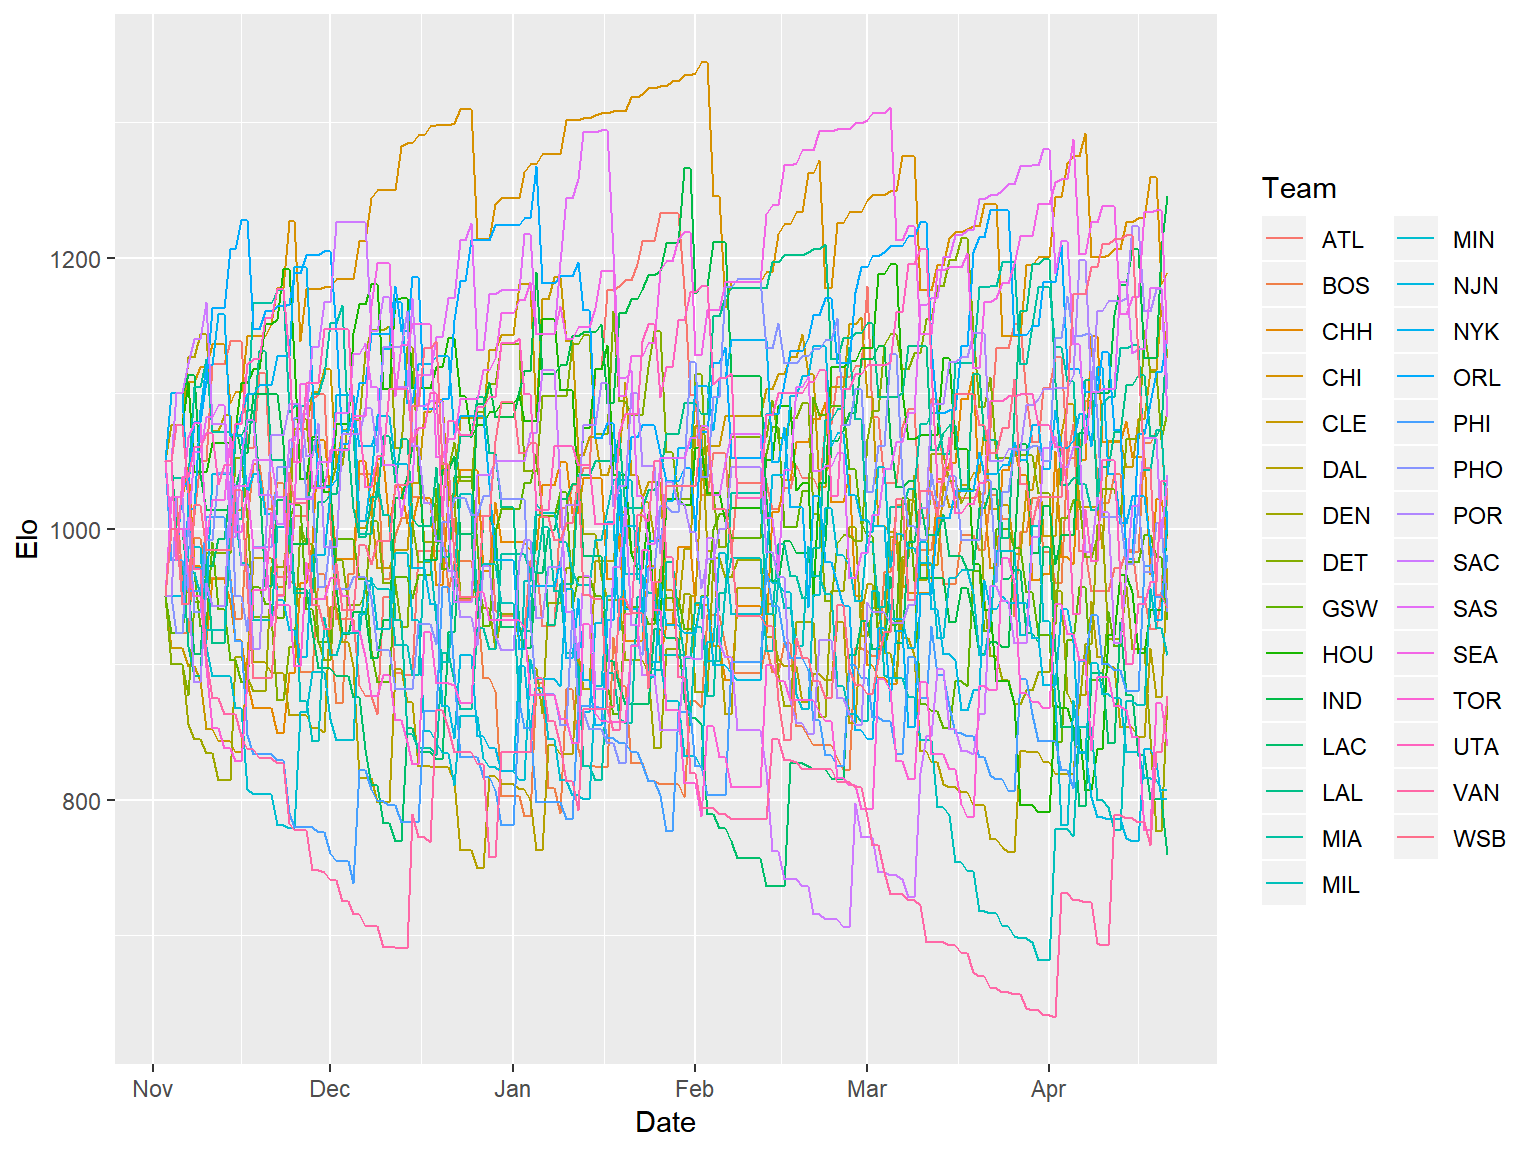
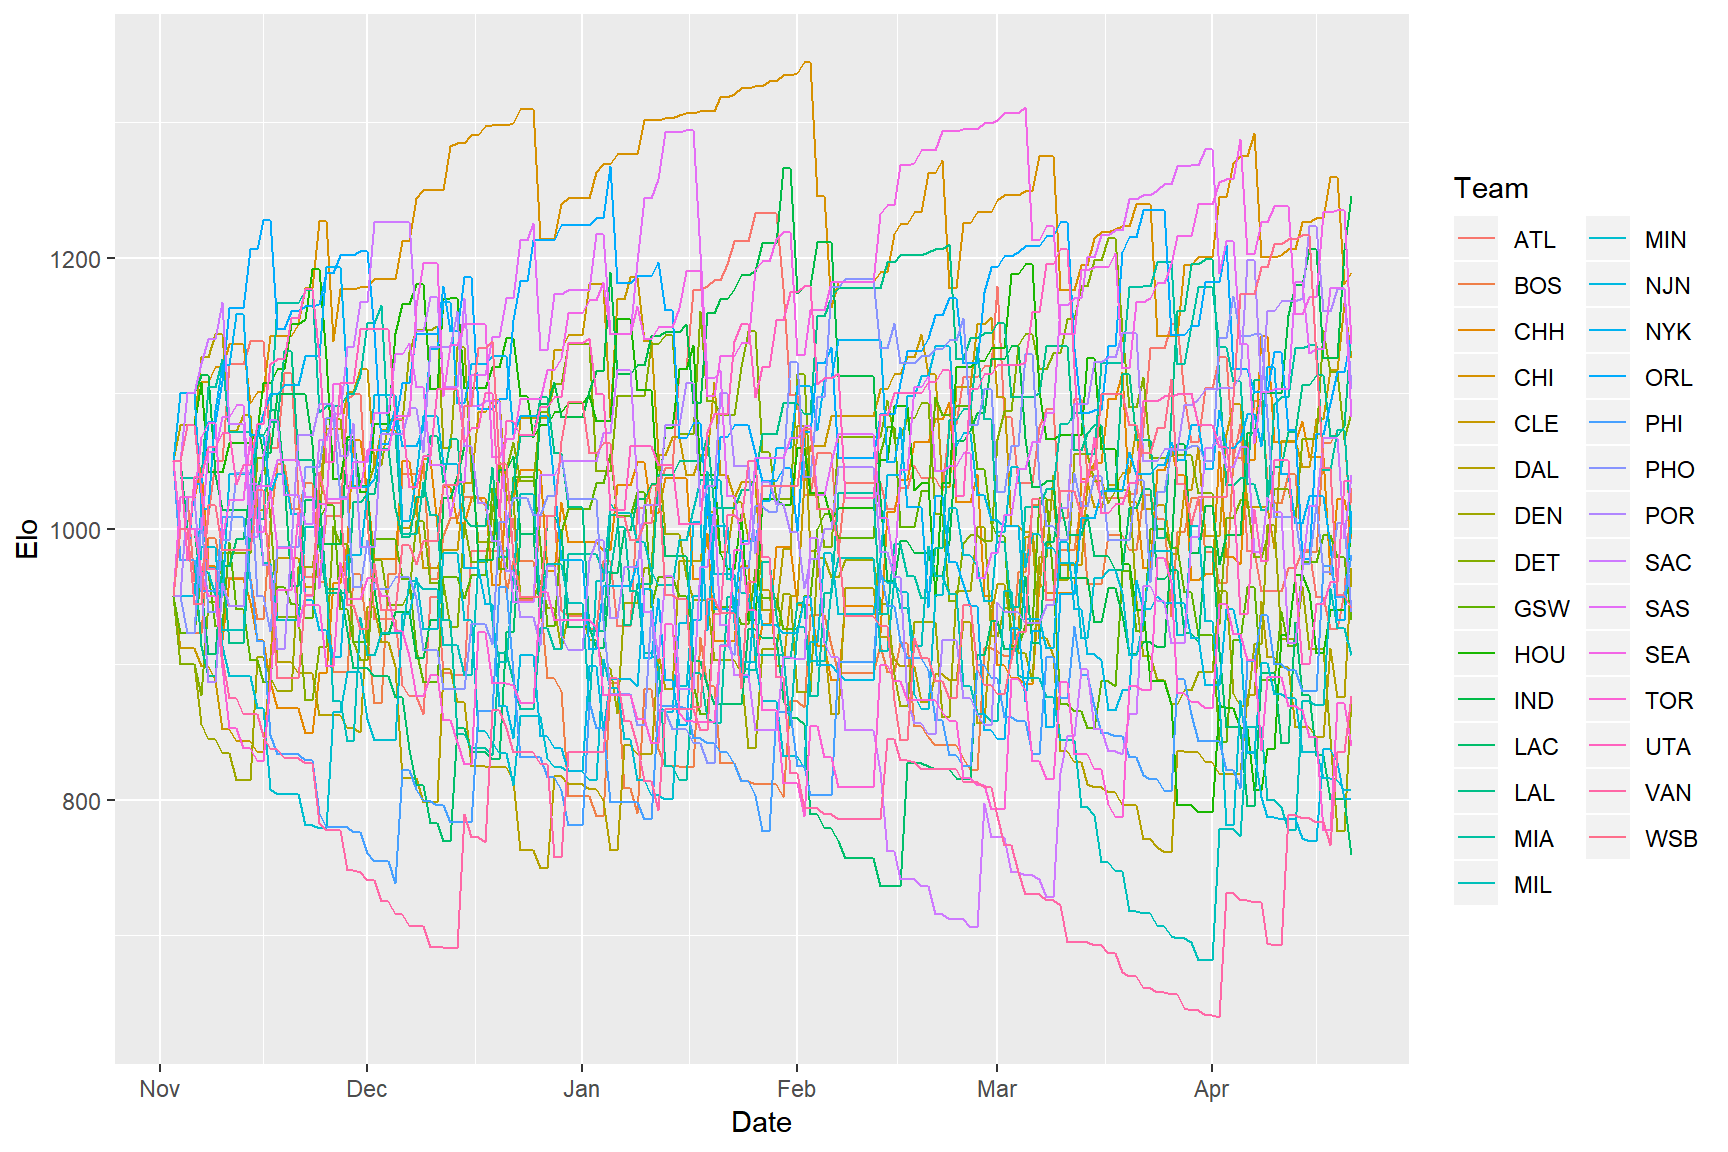
tweaks to vignette

diff --git a/docs/articles/nba-example.html b/docs/articles/nba-example.html
@@ -92,7 +92,7 @@
 
     
     
-<p>A familiar example may be useful for understanding the different fitting options available in the EloOptimized package. We included in the package a set of game results from the 1995-1996 NBA regular season. We used NBA data because games can’t end in a tie, teams play all other teams over the course of the season, and there are a manageable set of teams for visualization purposes. During the 1995-1996 season, the Chicago Bulls went 72-10 (until recently the best record in NBA history), had a winning record against all but one team, and went on to win the championship. Therefore we would expect a reasonable ranking method to assign them the highest rank score by the end of the season. First we’ll use a traditional Elo ranking approach to assign Elo scores using <code><a href="../reference/eloratingfixed.html">eloratingfixed()</a></code>, and then we’ll show how maximum likelihood fitting improves things.</p>
+<p>A familiar example may be useful for understanding the different fitting options available in the EloOptimized package. We included in the package a data frame with game results from the 1995-1996 NBA regular season. We used NBA data because games can’t end in a tie, teams play all other teams over the course of the season, and there’s a manageable set of teams for visualization purposes. During the 1995-1996 season, the Chicago Bulls went 72-10 (until recently the best record in NBA history), had a winning record against all but one team (the Pacers, against whom they went 2-2), and went on to win the championship. Therefore we would expect a reasonable ranking method to assign them the highest rank score by the end of the season. First we’ll use a traditional Elo ranking approach to assign Elo scores using <code><a href="../reference/eloratingfixed.html">eloratingfixed()</a></code>, and then we’ll show how maximum likelihood fitting improves things.</p>
 <div id="traditional-elo-scores-with-default-parameter-values" class="section level2">
 <h2 class="hasAnchor">
 <a href="#traditional-elo-scores-with-default-parameter-values" class="anchor"></a>Traditional Elo scores with default parameter values</h2>
@@ -126,9 +126,9 @@
 <a class="sourceLine" id="cb3-18" title="18"><span class="st">  </span><span class="kw">rename</span>(<span class="dt">Team =</span> Individual) <span class="op">%&gt;%</span></a>
 <a class="sourceLine" id="cb3-19" title="19"><span class="st">  </span><span class="kw">ggplot</span>(<span class="kw">aes</span>(<span class="dt">x =</span> Date, <span class="dt">y =</span> Elo, <span class="dt">color =</span> Team)) <span class="op">+</span><span class="st"> </span></a>
 <a class="sourceLine" id="cb3-20" title="20"><span class="st">  </span><span class="kw">geom_line</span>()</a></code></pre></div>
-<p><img src="nba-example_files/figure-html/unnamed-chunk-3-1.png" width="768"></p>
+<p><img src="nba-example_files/figure-html/unnamed-chunk-3-1.png" width="864"></p>
 <p>There’s a lot of noise in that plot, but if you look closely you’ll notice that Chicago doesn’t end the season with the highest Elo score. There were 29 teams in the NBA in the 95-96 season, so we can check final Elo scores directly by sorting the the last 29 rows of the Elo scores data frame (we’re removing a couple columns to make the output easier to look at):</p>
-<div class="sourceCode" id="cb4"><pre class="sourceCode r"><code class="sourceCode r"><a class="sourceLine" id="cb4-1" title="1"><span class="kw"><a href="https://www.rdocumentation.org/packages/utils/topics/head">tail</a></span>(res<span class="op">$</span>elo, <span class="dv">29</span>) <span class="op">%&gt;%</span><span class="st"> </span>dplyr<span class="op">::</span><span class="kw"><a href="https://dplyr.tidyverse.org/reference/arrange.html">arrange</a></span>(<span class="op">-</span>Elo) <span class="op">%&gt;%</span><span class="st"> </span><span class="kw">select</span>(<span class="op">-</span>ExpNumBeaten, <span class="op">-</span>JenksEloCardinal)</a>
+<div class="sourceCode" id="cb4"><pre class="sourceCode r"><code class="sourceCode r"><a class="sourceLine" id="cb4-1" title="1"><span class="kw"><a href="https://www.rdocumentation.org/packages/utils/topics/head">tail</a></span>(res<span class="op">$</span>elo, <span class="dv">29</span>) <span class="op">%&gt;%</span><span class="st"> </span><span class="kw">arrange</span>(<span class="op">-</span>Elo) <span class="op">%&gt;%</span><span class="st"> </span><span class="kw">select</span>(<span class="op">-</span>ExpNumBeaten, <span class="op">-</span>JenksEloCardinal)</a>
 <a class="sourceLine" id="cb4-2" title="2"><span class="co">#&gt;          Date Individual       Elo EloOrdinal  EloScaled EloCardinal</span></a>
 <a class="sourceLine" id="cb4-3" title="3"><span class="co">#&gt; 1  1996-04-21        IND 1245.7977          1 1.00000000   0.8921359</span></a>
 <a class="sourceLine" id="cb4-4" title="4"><span class="co">#&gt; 2  1996-04-21        CHI 1189.4438          2 0.88412548   0.8285396</span></a>
@@ -173,9 +173,9 @@
 <a class="sourceLine" id="cb6-2" title="2"><span class="st">  </span><span class="kw">rename</span>(<span class="dt">Team =</span> Individual) <span class="op">%&gt;%</span></a>
 <a class="sourceLine" id="cb6-3" title="3"><span class="st">  </span><span class="kw">ggplot</span>(<span class="kw">aes</span>(<span class="dt">x =</span> Date, <span class="dt">y =</span> Elo, <span class="dt">color =</span> Team)) <span class="op">+</span><span class="st"> </span></a>
 <a class="sourceLine" id="cb6-4" title="4"><span class="st">  </span><span class="kw">geom_line</span>()</a></code></pre></div>
-<p><img src="nba-example_files/figure-html/unnamed-chunk-6-1.png" width="768"></p>
+<p><img src="nba-example_files/figure-html/unnamed-chunk-6-1.png" width="864"></p>
 <p>There’s an initial period of sorting, followed by more stable Elo scores over the course of the season. It looks like Chicago’s on top this time, but let’s double check:</p>
-<div class="sourceCode" id="cb7"><pre class="sourceCode r"><code class="sourceCode r"><a class="sourceLine" id="cb7-1" title="1"><span class="kw"><a href="https://www.rdocumentation.org/packages/utils/topics/head">tail</a></span>(res2<span class="op">$</span>elo, <span class="dv">29</span>) <span class="op">%&gt;%</span><span class="st"> </span>dplyr<span class="op">::</span><span class="kw"><a href="https://dplyr.tidyverse.org/reference/arrange.html">arrange</a></span>(<span class="op">-</span>Elo) <span class="op">%&gt;%</span><span class="st"> </span><span class="kw">select</span>(<span class="op">-</span>ExpNumBeaten, <span class="op">-</span>JenksEloCardinal)</a>
+<div class="sourceCode" id="cb7"><pre class="sourceCode r"><code class="sourceCode r"><a class="sourceLine" id="cb7-1" title="1"><span class="kw"><a href="https://www.rdocumentation.org/packages/utils/topics/head">tail</a></span>(res2<span class="op">$</span>elo, <span class="dv">29</span>) <span class="op">%&gt;%</span><span class="st"> </span><span class="kw">arrange</span>(<span class="op">-</span>Elo) <span class="op">%&gt;%</span><span class="st"> </span><span class="kw">select</span>(<span class="op">-</span>ExpNumBeaten, <span class="op">-</span>JenksEloCardinal)</a>
 <a class="sourceLine" id="cb7-2" title="2"><span class="co">#&gt;          Date Individual       Elo EloOrdinal  EloScaled EloCardinal</span></a>
 <a class="sourceLine" id="cb7-3" title="3"><span class="co">#&gt; 1  1996-04-21        CHI 1177.8359          1 1.00000000   0.8386881</span></a>
 <a class="sourceLine" id="cb7-4" title="4"><span class="co">#&gt; 2  1996-04-21        SEA 1140.5106          2 0.88692465   0.7832719</span></a>
@@ -220,9 +220,9 @@
 <a class="sourceLine" id="cb9-2" title="2"><span class="st">  </span><span class="kw">rename</span>(<span class="dt">Team =</span> Individual) <span class="op">%&gt;%</span></a>
 <a class="sourceLine" id="cb9-3" title="3"><span class="st">  </span><span class="kw">ggplot</span>(<span class="kw">aes</span>(<span class="dt">x =</span> Date, <span class="dt">y =</span> Elo, <span class="dt">color =</span> Team)) <span class="op">+</span><span class="st"> </span></a>
 <a class="sourceLine" id="cb9-4" title="4"><span class="st">  </span><span class="kw">geom_line</span>()</a></code></pre></div>
-<p><img src="nba-example_files/figure-html/unnamed-chunk-9-1.png" width="768"></p>
+<p><img src="nba-example_files/figure-html/unnamed-chunk-9-1.png" width="864"></p>
 <p>Now Chicago’s dominance is more strongly reflected in their final Elo score relative to others. It’s easier to see this in the EloCardinal scores, which essentially represents the cumulative probability of winning against all other individuals (i.e. teams) scaled by the total number of other individuals/teams.</p>
-<div class="sourceCode" id="cb10"><pre class="sourceCode r"><code class="sourceCode r"><a class="sourceLine" id="cb10-1" title="1"><span class="kw"><a href="https://www.rdocumentation.org/packages/utils/topics/head">tail</a></span>(res3<span class="op">$</span>elo, <span class="dv">29</span>) <span class="op">%&gt;%</span><span class="st"> </span>dplyr<span class="op">::</span><span class="kw"><a href="https://dplyr.tidyverse.org/reference/arrange.html">arrange</a></span>(<span class="op">-</span>Elo) <span class="op">%&gt;%</span><span class="st"> </span><span class="kw">select</span>(<span class="op">-</span>ExpNumBeaten, <span class="op">-</span>JenksEloCardinal)</a>
+<div class="sourceCode" id="cb10"><pre class="sourceCode r"><code class="sourceCode r"><a class="sourceLine" id="cb10-1" title="1"><span class="kw"><a href="https://www.rdocumentation.org/packages/utils/topics/head">tail</a></span>(res3<span class="op">$</span>elo, <span class="dv">29</span>) <span class="op">%&gt;%</span><span class="st"> </span><span class="kw">arrange</span>(<span class="op">-</span>Elo) <span class="op">%&gt;%</span><span class="st"> </span><span class="kw">select</span>(<span class="op">-</span>ExpNumBeaten, <span class="op">-</span>JenksEloCardinal)</a>
 <a class="sourceLine" id="cb10-2" title="2"><span class="co">#&gt;          Date Individual          Elo EloOrdinal  EloScaled EloCardinal</span></a>
 <a class="sourceLine" id="cb10-3" title="3"><span class="co">#&gt; 1  1996-04-21        CHI  207.7177658          1 1.00000000   0.8769118</span></a>
 <a class="sourceLine" id="cb10-4" title="4"><span class="co">#&gt; 2  1996-04-21        SEA  133.9553779          2 0.79899641   0.7749567</span></a>
@@ -253,12 +253,12 @@
 <a class="sourceLine" id="cb10-29" title="29"><span class="co">#&gt; 27 1996-04-21        TOR -115.7083976         27 0.11865894   0.2579219</span></a>
 <a class="sourceLine" id="cb10-30" title="30"><span class="co">#&gt; 28 1996-04-21        PHI -134.4412811         28 0.06761155   0.2251684</span></a>
 <a class="sourceLine" id="cb10-31" title="31"><span class="co">#&gt; 29 1996-04-21        VAN -159.2527265         29 0.00000000   0.1857691</span></a></code></pre></div>
-<p>Because each team plays the same number of games, and schedules are fairly balanced, the Elo scores now just follow each team’s overall record. These scores are not useful as dynamic records of team performance, but would be useful for calculating winning probabilities according to the sigmoid equation from <a href="https://www.nature.com/articles/srep35404">Foerster, Franz et al., 2016</a>. And in an animal system where individuals enter and leave the hierarchy through maturation and death, respectively, and where individuals tend to enter towards the bottom of the hierarchy, such a result would reflect a queuing system, as argued in the linked article.</p>
+<p>Because each team plays the same number of games, and schedules are fairly balanced, the Elo scores now reflect each team’s overall record. These scores are not useful as dynamic records of team performance, but would be useful for calculating winning probabilities according to the sigmoid equation from <a href="https://www.nature.com/articles/srep35404">Foerster, Franz et al., 2016</a>. And in an animal system where individuals enter and leave the hierarchy through maturation and death, respectively, and where individuals tend to enter towards the bottom of the hierarchy, such a result would reflect a queuing system, as argued in the linked article.</p>
 </div>
 <div class="footnotes">
 <hr>
 <ol>
-<li id="fn1"><p>Currently the only option available in the eloratingopt() function is to use the sigmoid function from the linked paper, but you can use the the pnorm-based method from the EloRating package in the eloratingfixed() function (to make comparison with that package easier).<a href="#fnref1" class="footnote-back">↩</a></p></li>
+<li id="fn1"><p>Currently the only option available in the <code><a href="../reference/eloratingopt.html">eloratingopt()</a></code> function is to use the sigmoid function from the linked paper, but you can use the the pnorm-based method from the EloRating package in the <code><a href="../reference/eloratingfixed.html">eloratingfixed()</a></code> function (to make comparison with that package easier).<a href="#fnref1" class="footnote-back">↩</a></p></li>
 </ol>
 </div>
   </div>

diff --git a/docs/news/index.html b/docs/news/index.html
@@ -123,6 +123,7 @@
 <li><p>Removed tcltk, rlist dependencies (holdovers from older code)</p></li>
 <li><p>Streamlined some things under the hood to make post-processing more efficient in eloratingopt &amp; eloratingfixed</p></li>
 <li><p>EloOrdinal column in output now stored as an integer object for small space saving.</p></li>
+<li><p>Added a vignette to demonstrate usage of the package.</p></li>
 </ul>
 </div>
     <div id="elooptimized-030" class="section level1">
